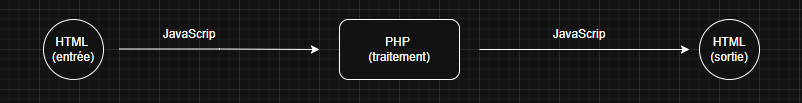
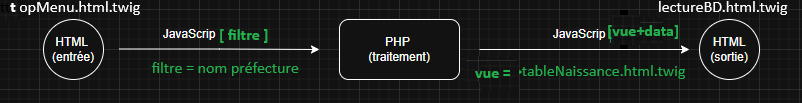
Ajax: Spécification du paradigme entrée/traitement/réponse

diff --git a/symfony.html b/symfony.html
@@ -145,13 +145,13 @@
 			<li class="toggleSubMenu"><span>7. Affichage </span>
 				  <ul class="subMenu"  style="color:silver;" >						
 					
-					<li><a href="#afficheTable" >Afficher(table)</a></li>
+					<li><a href="#afficheTable" >Charger la table</a></li>
 					<li><a href="#afficheDocument" >Afficher(document)</a></li>
 					<li><a href="#imprimeDocument" >Imprimer(document)</a></li>
 
 				  </ul>
 			</li>
-			<li class="toggleSubMenu"><span>8. Model de données </span>
+			<li class="toggleSubMenu" style="border-top:1px solid gray;"><span>8. Model de données </span>
 				  <ul class="subMenu"  style="color:silver;" >						
 					<li><a href="#8.1" >Utilisateurs</a></li>
 					<li><a href="#8.2" >Documents</a></li>
@@ -590,7 +590,7 @@
   
   <p class="img" id="afficheTable" style="background: #f7f7f9; width:94%">7. Affichage des documents 👉 <span style="color:blue">lectureBD.php</span></p> 
   
-  <p><b><u>7.1 Afficher la table</u>: lire/tableNaissance.html.twig</b></p>
+  <p><b><u>7.1 Ajax - Charger la table "lire/tableNaissance.html.twig"</u></b></p>
   <img src="uml/LectureBD/lectureBD.png" class="img interface2">
   <p class="img firstPart">
     Asynchronous loading: L'affichage de la table se fait par une combinaison <i style="color:#ececea">jQuery/</i><i style="color:#ececea">Ajax</i><br>

diff --git a/index.html b/index.html
@@ -108,7 +108,7 @@
 			<li class="toggleSubMenu" style="border-top:1px solid gray; "><span>7. Affichage </span>
 				  <ul class="subMenu"  style="color:silver;" >						
 					
-					<li><a href="#afficheTable" >Afficher(table)</a></li>
+					<li><a href="#afficheTable" >Charger la table</a></li>
 					<li><a href="#afficheDocument" >Afficher(document)</a></li>
 					<li><a href="#imprimeDocument" >Imprimer(document)</a></li>
 
@@ -601,7 +601,7 @@
   
   <p class="img" id="afficheTable" style="background: #f7f7f9; width:94%">7. Affichage des documents 👉 <span style="color:blue">lectureBD.php</span></p> 
   
-  <p><b><u>7.1 Afficher la table</u>: backend/lectureBD_afficherNaissance.php</b></p>
+  <p><b><u>7.1 Ajax - Charger la table "backend/lectureBD_afficherNaissance.php"</u></b></p>
   <img src="uml/LectureBD/lectureBD.png" class="img interface"> 
   <p class="img firstPart">
     Asynchronous loading: L'affichage de la table se fait par une combinaison <i style="color:#ececea">jQuery/ajax/php/ajax</i> en 4 étapes:<br><br>
